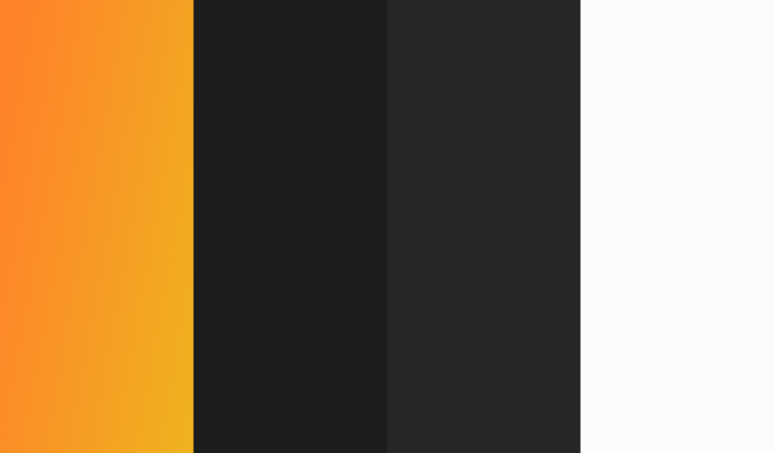
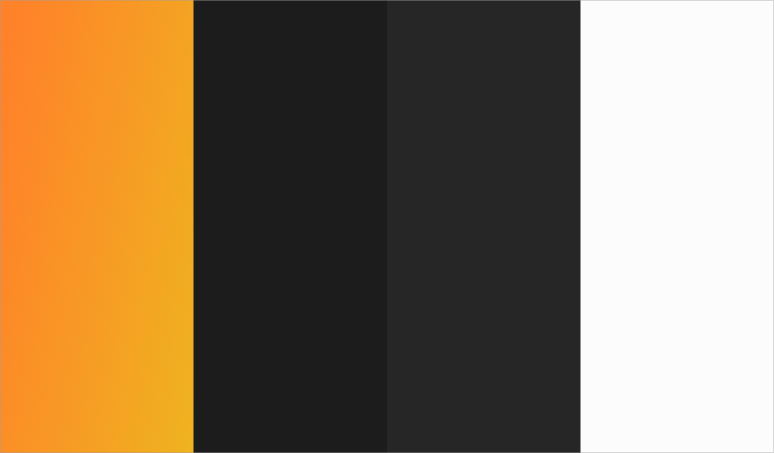
optimized some images

Changed region(s): [[0.0, 0.0, 1.0, 1.0], [0.0, 0.0, 0.031, 0.0309]]

diff --git a/src/components/ProjectsData.jsx b/src/components/ProjectsData.jsx
@@ -1,7 +1,7 @@
 // src/data/projectsData.js
 
-import IBCover from '../assets/projects/iambusayo/iambusayoCover.svg'
-import IBCoverMobile from '../assets/projects/iambusayo/iambusayoCoverMobile.svg'
+import IBCover from '../assets/projects/iambusayo/iambusayoCover.webp'
+import IBCoverMobile from '../assets/projects/iambusayo/iambusayoCoverMobile.webp'
 import IBSketch from '../assets/projects/iambusayo/sketch.jpg'
 import IBMockupLarge from '../assets/projects/iambusayo/mockupLarge.webp'
 import IBMockupMobile from '../assets/projects/iambusayo/mockupMobile.webp'
@@ -128,8 +128,8 @@ const projectsData = [
           mockupMobile: lcaMockupLarge,
           wireframeLarge: lcaWireLarge,
           wireframeMobile: lcaWireLarge,
-          iframeVideo1: <iframe className="w-full aspect-video pointer-events-auto" src="https://www.youtube.com/embed/ch0vRhSYUcY?autoplay=1&loop=1&playlist=ch0vRhSYUcY" title="YouTube video player" frameborder="0" allow="accelerometer; autoplay; clipboard-write; encrypted-media; gyroscope; picture-in-picture; web-share" referrerpolicy="strict-origin-when-cross-origin" allowfullscreen></iframe>,
-          iframeVideo2: <iframe className="w-full aspect-video pointer-events-auto" src="https://www.youtube.com/embed/EZY3AoQOGt4?autoplay=1&loop=1&playlist=EZY3AoQOGt4" title="YouTube video player" frameborder="0" allow="accelerometer; autoplay; clipboard-write; encrypted-media; gyroscope; picture-in-picture; web-share" referrerpolicy="strict-origin-when-cross-origin" allowfullscreen></iframe>,
+          iframeVideo1: <iframe className="w-full aspect-video pointer-events-auto" src="https://www.youtube.com/embed/cNmU-509qrA?autoplay=1&loop=1&playlist=cNmU-509qrA" title="YouTube video player" frameborder="0" allow="accelerometer; autoplay; clipboard-write; encrypted-media; gyroscope; picture-in-picture; web-share" referrerpolicy="strict-origin-when-cross-origin" allowfullscreen></iframe>,
+          iframeVideo2: <iframe className="w-full aspect-video pointer-events-auto" src="https://www.youtube.com/embed/499q61APee0?autoplay=1&loop=1&playlist=499q61APee0" title="YouTube video player" frameborder="0" allow="accelerometer; autoplay; clipboard-write; encrypted-media; gyroscope; picture-in-picture; web-share" referrerpolicy="strict-origin-when-cross-origin" allowfullscreen></iframe>,
           font: lcaFont,
           color: lcaColor,
           //   liveUrl: IamBusayoLink,

diff --git a/src/components/HomeComponents/Section1/Section1.jsx b/src/components/HomeComponents/Section1/Section1.jsx
@@ -8,7 +8,7 @@ import { motion, AnimatePresence } from "framer-motion";
 import ScrambleText from "../../ScrambleText";
 import style from './Section1.module.css'
 
-import Profile from '../../../assets/images/profile-orange-2.png'
+import Profile from '../../../assets/images/profile-orange-2.webp'
 import RightImg from '../../../assets/images/right-image.png'
 
 export default function Home() {
@@ -48,7 +48,7 @@ export default function Home() {
 
   return (
     // <div className="fixed top-0 left-0 w-full h-screen z-0">
-    <div className={`${style.rippleBackground} w-full bg-[url('/public/bggg-m3.png')] lg:bg-[url('/public/bggg.png')] min-h-screen px-4 lg:px-20 z-0 bg-[#1c1c1c]`} ref={rippleRef}>
+    <div className={`${style.rippleBackground} w-full bg-[url('/public/bggg-m3.webp')] lg:bg-[url('/public/bggg.webp')] min-h-screen px-4 lg:px-20 z-0 bg-[#1c1c1c]`} ref={rippleRef}>
         <div className={`${style.section}`}>
             <div  >
               <div className={` relative cursor-pointer flex items-center justify-center pt-36` } >
